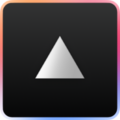
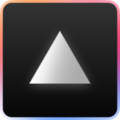
theme config

Changed region(s): [[0.225, 0.25, 0.775, 0.725]]

diff --git a/apps/docs/theme.config.jsx b/apps/docs/theme.config.jsx
@@ -5,7 +5,205 @@ export default {
   project: {
     link: 'https://github.com/shuding/nextra'
   },
-  logo: <strong>AI Utils</strong>,
+  logo: (
+    <span className="flex gap-2 font-bold text-lg items-center select-none">
+      <svg
+        xmlns="http://www.w3.org/2000/svg"
+        height="24"
+        fill="none"
+        viewBox="0 0 1024 1024"
+      >
+        <g clipPath="url(#clip0_102_208)">
+          <rect
+            width="977.455"
+            height="977.455"
+            x="23.273"
+            y="23.273"
+            fill="url(#paint0_linear_102_208)"
+            rx="79.515"
+          ></rect>
+          <g filter="url(#filter0_di_102_208)">
+            <path
+              fill="url(#paint1_linear_102_208)"
+              d="M511.03 306.424l210.424 362.667H300.606L511.03 306.424z"
+            ></path>
+          </g>
+          <mask
+            id="mask0_102_208"
+            style={{ maskType: 'alpha' }}
+            width="1024"
+            height="1024"
+            x="0"
+            y="0"
+            maskUnits="userSpaceOnUse"
+          >
+            <rect
+              width="1000.73"
+              height="1000.73"
+              x="11.636"
+              y="11.636"
+              stroke="#000"
+              strokeWidth="23.273"
+              rx="91.151"
+            ></rect>
+          </mask>
+          <g filter="url(#filter1_f_102_208)" mask="url(#mask0_102_208)">
+            <path
+              fill="url(#paint2_linear_102_208)"
+              d="M-88.638 197.111l277.355-340.626L630.689 41.738c37.58 187.244 55.072 561.734-175.591 561.734-194.273 0-240.351-110.687-239.325-192.224-23.622 150.658-122.154 378.807-377.242 339.629-43.1-30.278 30.596-381.793 72.83-553.766z"
+            ></path>
+            <path
+              fill="url(#paint3_linear_102_208)"
+              d="M514.513 329.324l339.424 273.797 333.033 24.789c-80.41 173.273-287.78 485.83-473.947 349.874-186.167-135.958-279.862 250.156-219.226 197.766-94.394 110.83-164.922-242.362-365.58-442.213-16.878-49.841 250.498-290.109 386.296-404.013z"
+            ></path>
+            <path
+              fill="url(#paint4_linear_102_208)"
+              d="M987.377 739.387L569.385 614.252 251.741 717.175c8.717-190.768 82.117-558.433 305.986-502.955 223.869 55.478 164.166-337.305 127.908-265.904 45.342-138.248 244.558 161.995 506.075 271.134 34.52 39.752-121.84 363.188-204.333 519.937z"
+            ></path>
+          </g>
+        </g>
+        <defs>
+          <filter
+            id="filter0_di_102_208"
+            width="579.879"
+            height="521.697"
+            x="221.091"
+            y="242.424"
+            colorInterpolationFilters="sRGB"
+            filterUnits="userSpaceOnUse"
+          >
+            <feFlood floodOpacity="0" result="BackgroundImageFix"></feFlood>
+            <feColorMatrix
+              in="SourceAlpha"
+              result="hardAlpha"
+              values="0 0 0 0 0 0 0 0 0 0 0 0 0 0 0 0 0 0 127 0"
+            ></feColorMatrix>
+            <feOffset dy="15.515"></feOffset>
+            <feGaussianBlur stdDeviation="39.758"></feGaussianBlur>
+            <feComposite in2="hardAlpha" operator="out"></feComposite>
+            <feColorMatrix values="0 0 0 0 0 0 0 0 0 0 0 0 0 0 0 0 0 0 0.25 0"></feColorMatrix>
+            <feBlend
+              in2="BackgroundImageFix"
+              result="effect1_dropShadow_102_208"
+            ></feBlend>
+            <feBlend
+              in="SourceGraphic"
+              in2="effect1_dropShadow_102_208"
+              result="shape"
+            ></feBlend>
+            <feColorMatrix
+              in="SourceAlpha"
+              result="hardAlpha"
+              values="0 0 0 0 0 0 0 0 0 0 0 0 0 0 0 0 0 0 127 0"
+            ></feColorMatrix>
+            <feOffset dx="0.97" dy="13.576"></feOffset>
+            <feGaussianBlur stdDeviation="0.97"></feGaussianBlur>
+            <feComposite
+              in2="hardAlpha"
+              k2="-1"
+              k3="1"
+              operator="arithmetic"
+            ></feComposite>
+            <feColorMatrix values="0 0 0 0 0.0286285 0 0 0 0 0.0404458 0 0 0 0 0.0708333 0 0 0 0.06 0"></feColorMatrix>
+            <feBlend in2="shape" result="effect2_innerShadow_102_208"></feBlend>
+          </filter>
+          <filter
+            id="filter1_f_102_208"
+            width="2146.91"
+            height="2115.88"
+            x="-562.424"
+            y="-531.394"
+            colorInterpolationFilters="sRGB"
+            filterUnits="userSpaceOnUse"
+          >
+            <feFlood floodOpacity="0" result="BackgroundImageFix"></feFlood>
+            <feBlend
+              in="SourceGraphic"
+              in2="BackgroundImageFix"
+              result="shape"
+            ></feBlend>
+            <feGaussianBlur
+              result="effect1_foregroundBlur_102_208"
+              stdDeviation="193.939"
+            ></feGaussianBlur>
+          </filter>
+          <linearGradient
+            id="paint0_linear_102_208"
+            x1="512"
+            x2="512"
+            y1="23.273"
+            y2="1000.73"
+            gradientUnits="userSpaceOnUse"
+          >
+            <stop stopColor="#333434"></stop>
+            <stop offset="1" stopColor="#060606"></stop>
+          </linearGradient>
+          <linearGradient
+            id="paint1_linear_102_208"
+            x1="249.709"
+            x2="750.212"
+            y1="532.522"
+            y2="688.409"
+            gradientUnits="userSpaceOnUse"
+          >
+            <stop stopColor="#fff"></stop>
+            <stop offset="0.089" stopColor="#FEFEFE"></stop>
+            <stop offset="0.161" stopColor="#FCFCFC"></stop>
+            <stop offset="0.22" stopColor="#F9F9F9"></stop>
+            <stop offset="0.267" stopColor="#F5F5F5"></stop>
+            <stop offset="0.305" stopColor="#F0F0F0"></stop>
+            <stop offset="0.336" stopColor="#EAEAEA"></stop>
+            <stop offset="0.364" stopColor="#E3E3E3"></stop>
+            <stop offset="0.391" stopColor="#DCDCDC"></stop>
+            <stop offset="0.418" stopColor="#D5D5D5"></stop>
+            <stop offset="0.45" stopColor="#CDCDCD"></stop>
+            <stop offset="0.488" stopColor="#C6C6C6"></stop>
+            <stop offset="0.535" stopColor="#BEBEBE"></stop>
+            <stop offset="0.593" stopColor="#B7B7B7"></stop>
+            <stop offset="0.666" stopColor="#B0B0B0"></stop>
+            <stop offset="0.755" stopColor="#AAA"></stop>
+          </linearGradient>
+          <linearGradient
+            id="paint2_linear_102_208"
+            x1="511.03"
+            x2="511.03"
+            y1="-143.515"
+            y2="1196.61"
+            gradientUnits="userSpaceOnUse"
+          >
+            <stop stopColor="#F90"></stop>
+            <stop offset="1" stopColor="#F09"></stop>
+          </linearGradient>
+          <linearGradient
+            id="paint3_linear_102_208"
+            x1="511.03"
+            x2="511.03"
+            y1="-420.532"
+            y2="923.552"
+            gradientUnits="userSpaceOnUse"
+          >
+            <stop stopColor="#00D1FF"></stop>
+            <stop offset="1" stopColor="#0057FF"></stop>
+          </linearGradient>
+          <linearGradient
+            id="paint4_linear_102_208"
+            x1="420.072"
+            x2="1100.96"
+            y1="571.6"
+            y2="202.116"
+            gradientUnits="userSpaceOnUse"
+          >
+            <stop stopColor="#AD00FF"></stop>
+            <stop offset="1" stopColor="red"></stop>
+          </linearGradient>
+          <clipPath id="clip0_102_208">
+            <path fill="#fff" d="M0 0H1024V1024H0z"></path>
+          </clipPath>
+        </defs>
+      </svg>
+      AI Utils
+    </span>
+  ),
   useNextSeoProps: () => {
     const { title } = useConfig()
     return {
@@ -118,21 +316,14 @@ export default {
       </>
     )
   },
+  docsRepositoryBase:
+    'https://github.com/vercel-labs/ai-utils/tree/main/apps/docs',
   project: {
     link: 'https://github.com/vercel-labs/ai-utils'
   },
   footer: {
     text: (
-      <div
-        style={{
-          display: 'flex',
-          flexDirection: 'column',
-          justifyContent: 'flex-start',
-          alignItems: 'flex-start',
-          gap: '1rem',
-          fontSize: '0.8rem'
-        }}
-      >
+      <div className="flex flex-col justify-center items-center md:items-start gap-4 text-sm text-center">
         <a href="https://vercel.com/" target="_blank">
           <svg
             xmlns="http://www.w3.org/2000/svg"

diff --git a/apps/docs/styles.css b/apps/docs/styles.css
@@ -27,3 +27,15 @@ body {
     fixed 0 0 / 20px 20px radial-gradient(#313131 1px, transparent 0),
     fixed 10px 10px / 20px 20px radial-gradient(#313131 1px, transparent 0);
 }
+
+.main-title {
+  background: linear-gradient(180deg, #555, #000);
+  background-clip: text;
+  -webkit-text-fill-color: transparent;
+}
+
+.dark .main-title {
+  background: linear-gradient(180deg, #fff, #aaa);
+  background-clip: text;
+  -webkit-text-fill-color: transparent;
+}

diff --git a/apps/docs/tailwind.config.js b/apps/docs/tailwind.config.js
@@ -2,6 +2,6 @@ module.exports = {
   content: [
     './components/**/*.js',
     './pages/**/*.{md,mdx}',
-    './theme.config.js'
+    './theme.config.jsx'
   ]
 }
